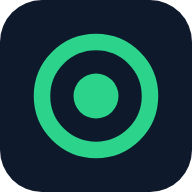
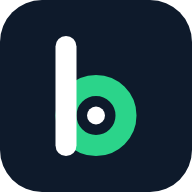
새 아이콘(렌즈 b)으로 바꾸기: 탭 아이콘·홈 화면 아이콘·머리글 로고·공유 그림
Claude-Session: https://claude.ai/code/session_01Y61Z65m8h8LFbiaCkMCBf3

Changed region(s): [[0.1562, 0.1562, 0.8438, 0.8438], [0.4375, 0.375, 0.5625, 0.4062]]

diff --git a/index.html b/index.html
@@ -283,7 +283,7 @@
 <body>
 <div class="band">
 <header class="sh"><div class="sh-in">
-  <a class="sh-logo" href="index.html"><svg width="26" height="26" viewBox="0 0 28 28" aria-hidden="true"><circle cx="14" cy="14" r="12" fill="none" stroke="#2bd48a" stroke-width="2.5"/><circle cx="14" cy="14" r="5" fill="#2bd48a"/></svg>블로랩</a>
+  <a class="sh-logo" href="index.html"><svg width="21" height="28" viewBox="16.5 10 31 44" aria-hidden="true"><circle cx="32" cy="38.5" r="10" fill="none" stroke="#2bd48a" stroke-width="7"/><rect x="18.5" y="12" width="7" height="40" rx="3.5" fill="#fff"/><circle cx="32" cy="38.5" r="3" fill="#fff"/></svg>블로랩</a>
   <nav class="sh-nav" aria-label="주요 메뉴"><a href="history.html">블로그 히스토리</a><a href="widget.html">업적 위젯</a><a href="analyze.html">체험단 진단</a><a href="analyze.html?mode=adpost">애드포스트 진단</a><a href="schedule.html">일정 관리</a><a href="index.html#sites">사이트 모음</a><a href="index.html#tips">꿀팁</a><a href="about.html">소개</a></nav>
   <div class="menu"><button class="mbtn" id="mbtn" type="button" aria-label="메뉴 열기" aria-expanded="false" aria-controls="mnav"><span></span><span></span><span></span></button>
   <nav class="mnav" id="mnav" hidden><a href="history.html">내 블로그 히스토리</a><a href="widget.html">블로그 업적 위젯</a><a href="analyze.html">체험단 탈락원인 진단</a><a href="analyze.html?mode=adpost">애드포스트 탈락원인 진단</a><a href="schedule.html">일정 관리</a><a href="index.html#sites">체험단 사이트 모음</a><a href="index.html#tips">꿀팁</a><a href="about.html">소개·문의</a></nav></div>

diff --git a/analyze.html b/analyze.html
@@ -123,7 +123,7 @@
 </head>
 <body>
 <header class="sh"><div class="sh-in">
-  <a class="sh-logo" href="index.html"><svg width="26" height="26" viewBox="0 0 28 28" aria-hidden="true"><circle cx="14" cy="14" r="12" fill="none" stroke="#2bd48a" stroke-width="2.5"/><circle cx="14" cy="14" r="5" fill="#2bd48a"/></svg>블로랩</a>
+  <a class="sh-logo" href="index.html"><svg width="21" height="28" viewBox="16.5 10 31 44" aria-hidden="true"><circle cx="32" cy="38.5" r="10" fill="none" stroke="#2bd48a" stroke-width="7"/><rect x="18.5" y="12" width="7" height="40" rx="3.5" fill="#fff"/><circle cx="32" cy="38.5" r="3" fill="#fff"/></svg>블로랩</a>
   <nav class="sh-nav" aria-label="주요 메뉴"><a href="history.html">블로그 히스토리</a><a href="widget.html">업적 위젯</a><a href="analyze.html">체험단 진단</a><a href="analyze.html?mode=adpost">애드포스트 진단</a><a href="schedule.html">일정 관리</a><a href="index.html#sites">사이트 모음</a><a href="index.html#tips">꿀팁</a><a href="about.html">소개</a></nav>
   <div class="menu"><button class="mbtn" id="mbtn" type="button" aria-label="메뉴 열기" aria-expanded="false" aria-controls="mnav"><span></span><span></span><span></span></button>
   <nav class="mnav" id="mnav" hidden><a href="history.html">내 블로그 히스토리</a><a href="widget.html">블로그 업적 위젯</a><a href="analyze.html">체험단 탈락원인 진단</a><a href="analyze.html?mode=adpost">애드포스트 탈락원인 진단</a><a href="schedule.html">일정 관리</a><a href="index.html#sites">체험단 사이트 모음</a><a href="index.html#tips">꿀팁</a><a href="about.html">소개·문의</a></nav></div>

diff --git a/blog/index.html b/blog/index.html
@@ -106,7 +106,7 @@
 </head>
 <body>
 <header class="sh"><div class="sh-in">
-  <a class="sh-logo" href="index.html"><svg width="26" height="26" viewBox="0 0 28 28" aria-hidden="true"><circle cx="14" cy="14" r="12" fill="none" stroke="#2bd48a" stroke-width="2.5"/><circle cx="14" cy="14" r="5" fill="#2bd48a"/></svg>블로랩</a>
+  <a class="sh-logo" href="index.html"><svg width="21" height="28" viewBox="16.5 10 31 44" aria-hidden="true"><circle cx="32" cy="38.5" r="10" fill="none" stroke="#2bd48a" stroke-width="7"/><rect x="18.5" y="12" width="7" height="40" rx="3.5" fill="#fff"/><circle cx="32" cy="38.5" r="3" fill="#fff"/></svg>블로랩</a>
   <nav class="sh-nav" aria-label="주요 메뉴"><a href="history.html">블로그 히스토리</a><a href="widget.html">업적 위젯</a><a href="analyze.html">체험단 진단</a><a href="analyze.html?mode=adpost">애드포스트 진단</a><a href="schedule.html">일정 관리</a><a href="index.html#sites">사이트 모음</a><a href="index.html#tips">꿀팁</a><a href="about.html">소개</a></nav>
   <div class="menu"><button class="mbtn" id="mbtn" type="button" aria-label="메뉴 열기" aria-expanded="false" aria-controls="mnav"><span></span><span></span><span></span></button>
   <nav class="mnav" id="mnav" hidden><a href="history.html">내 블로그 히스토리</a><a href="widget.html">블로그 업적 위젯</a><a href="analyze.html">체험단 탈락원인 진단</a><a href="analyze.html?mode=adpost">애드포스트 탈락원인 진단</a><a href="schedule.html">일정 관리</a><a href="index.html#sites">체험단 사이트 모음</a><a href="index.html#tips">꿀팁</a><a href="about.html">소개·문의</a></nav></div>

diff --git a/history.html b/history.html
@@ -255,7 +255,7 @@
 </head>
 <body>
 <header class="sh"><div class="sh-in">
-  <a class="sh-logo" href="index.html"><svg width="26" height="26" viewBox="0 0 28 28" aria-hidden="true"><circle cx="14" cy="14" r="12" fill="none" stroke="#2bd48a" stroke-width="2.5"/><circle cx="14" cy="14" r="5" fill="#2bd48a"/></svg>블로랩</a>
+  <a class="sh-logo" href="index.html"><svg width="21" height="28" viewBox="16.5 10 31 44" aria-hidden="true"><circle cx="32" cy="38.5" r="10" fill="none" stroke="#2bd48a" stroke-width="7"/><rect x="18.5" y="12" width="7" height="40" rx="3.5" fill="#fff"/><circle cx="32" cy="38.5" r="3" fill="#fff"/></svg>블로랩</a>
   <nav class="sh-nav" aria-label="주요 메뉴"><a href="history.html">블로그 히스토리</a><a href="widget.html">업적 위젯</a><a href="analyze.html">체험단 진단</a><a href="analyze.html?mode=adpost">애드포스트 진단</a><a href="schedule.html">일정 관리</a><a href="index.html#sites">사이트 모음</a><a href="index.html#tips">꿀팁</a><a href="about.html">소개</a></nav>
   <div class="menu"><button class="mbtn" id="mbtn" type="button" aria-label="메뉴 열기" aria-expanded="false" aria-controls="mnav"><span></span><span></span><span></span></button>
   <nav class="mnav" id="mnav" hidden><a href="history.html">내 블로그 히스토리</a><a href="widget.html">블로그 업적 위젯</a><a href="analyze.html">체험단 탈락원인 진단</a><a href="analyze.html?mode=adpost">애드포스트 탈락원인 진단</a><a href="schedule.html">일정 관리</a><a href="index.html#sites">체험단 사이트 모음</a><a href="index.html#tips">꿀팁</a><a href="about.html">소개·문의</a></nav></div>

diff --git a/widget.html b/widget.html
@@ -143,7 +143,7 @@
 </head>
 <body>
 <header class="sh"><div class="sh-in">
-  <a class="sh-logo" href="index.html"><svg width="26" height="26" viewBox="0 0 28 28" aria-hidden="true"><circle cx="14" cy="14" r="12" fill="none" stroke="#2bd48a" stroke-width="2.5"/><circle cx="14" cy="14" r="5" fill="#2bd48a"/></svg>블로랩</a>
+  <a class="sh-logo" href="index.html"><svg width="21" height="28" viewBox="16.5 10 31 44" aria-hidden="true"><circle cx="32" cy="38.5" r="10" fill="none" stroke="#2bd48a" stroke-width="7"/><rect x="18.5" y="12" width="7" height="40" rx="3.5" fill="#fff"/><circle cx="32" cy="38.5" r="3" fill="#fff"/></svg>블로랩</a>
   <nav class="sh-nav" aria-label="주요 메뉴"><a href="history.html">블로그 히스토리</a><a href="widget.html">업적 위젯</a><a href="analyze.html">체험단 진단</a><a href="analyze.html?mode=adpost">애드포스트 진단</a><a href="schedule.html">일정 관리</a><a href="index.html#sites">사이트 모음</a><a href="index.html#tips">꿀팁</a><a href="about.html">소개</a></nav>
   <div class="menu"><button class="mbtn" id="mbtn" type="button" aria-label="메뉴 열기" aria-expanded="false" aria-controls="mnav"><span></span><span></span><span></span></button>
   <nav class="mnav" id="mnav" hidden><a href="history.html">내 블로그 히스토리</a><a href="widget.html">블로그 업적 위젯</a><a href="analyze.html">체험단 탈락원인 진단</a><a href="analyze.html?mode=adpost">애드포스트 탈락원인 진단</a><a href="schedule.html">일정 관리</a><a href="index.html#sites">체험단 사이트 모음</a><a href="index.html#tips">꿀팁</a><a href="about.html">소개·문의</a></nav></div>

diff --git a/about.html b/about.html
@@ -49,7 +49,7 @@
 </head>
 <body>
 <header class="sh"><div class="sh-in">
-  <a class="sh-logo" href="index.html"><svg width="26" height="26" viewBox="0 0 28 28" aria-hidden="true"><circle cx="14" cy="14" r="12" fill="none" stroke="#2bd48a" stroke-width="2.5"/><circle cx="14" cy="14" r="5" fill="#2bd48a"/></svg>블로랩</a>
+  <a class="sh-logo" href="index.html"><svg width="21" height="28" viewBox="16.5 10 31 44" aria-hidden="true"><circle cx="32" cy="38.5" r="10" fill="none" stroke="#2bd48a" stroke-width="7"/><rect x="18.5" y="12" width="7" height="40" rx="3.5" fill="#fff"/><circle cx="32" cy="38.5" r="3" fill="#fff"/></svg>블로랩</a>
   <nav class="sh-nav" aria-label="주요 메뉴"><a href="history.html">블로그 히스토리</a><a href="widget.html">업적 위젯</a><a href="analyze.html">체험단 진단</a><a href="analyze.html?mode=adpost">애드포스트 진단</a><a href="schedule.html">일정 관리</a><a href="index.html#sites">사이트 모음</a><a href="index.html#tips">꿀팁</a><a href="about.html">소개</a></nav>
   <div class="menu"><button class="mbtn" id="mbtn" type="button" aria-label="메뉴 열기" aria-expanded="false" aria-controls="mnav"><span></span><span></span><span></span></button>
   <nav class="mnav" id="mnav" hidden><a href="history.html">내 블로그 히스토리</a><a href="widget.html">블로그 업적 위젯</a><a href="analyze.html">체험단 탈락원인 진단</a><a href="analyze.html?mode=adpost">애드포스트 탈락원인 진단</a><a href="schedule.html">일정 관리</a><a href="index.html#sites">체험단 사이트 모음</a><a href="index.html#tips">꿀팁</a><a href="about.html">소개·문의</a></nav></div>

diff --git a/login.html b/login.html
@@ -55,7 +55,7 @@
 </head>
 <body>
 <header class="sh"><div class="sh-in">
-  <a class="sh-logo" href="index.html"><svg width="26" height="26" viewBox="0 0 28 28" aria-hidden="true"><circle cx="14" cy="14" r="12" fill="none" stroke="#2bd48a" stroke-width="2.5"/><circle cx="14" cy="14" r="5" fill="#2bd48a"/></svg>블로랩</a>
+  <a class="sh-logo" href="index.html"><svg width="21" height="28" viewBox="16.5 10 31 44" aria-hidden="true"><circle cx="32" cy="38.5" r="10" fill="none" stroke="#2bd48a" stroke-width="7"/><rect x="18.5" y="12" width="7" height="40" rx="3.5" fill="#fff"/><circle cx="32" cy="38.5" r="3" fill="#fff"/></svg>블로랩</a>
   <nav class="sh-nav" aria-label="주요 메뉴"><a href="history.html">블로그 히스토리</a><a href="widget.html">업적 위젯</a><a href="analyze.html">체험단 진단</a><a href="analyze.html?mode=adpost">애드포스트 진단</a><a href="schedule.html">일정 관리</a><a href="index.html#sites">사이트 모음</a><a href="index.html#tips">꿀팁</a><a href="about.html">소개</a></nav>
   <div class="menu"><button class="mbtn" id="mbtn" type="button" aria-label="메뉴 열기" aria-expanded="false" aria-controls="mnav"><span></span><span></span><span></span></button>
   <nav class="mnav" id="mnav" hidden><a href="history.html">내 블로그 히스토리</a><a href="widget.html">블로그 업적 위젯</a><a href="analyze.html">체험단 탈락원인 진단</a><a href="analyze.html?mode=adpost">애드포스트 탈락원인 진단</a><a href="schedule.html">일정 관리</a><a href="index.html#sites">체험단 사이트 모음</a><a href="index.html#tips">꿀팁</a><a href="about.html">소개·문의</a></nav></div>

diff --git a/privacy.html b/privacy.html
@@ -49,7 +49,7 @@
 </head>
 <body>
 <header class="sh"><div class="sh-in">
-  <a class="sh-logo" href="index.html"><svg width="26" height="26" viewBox="0 0 28 28" aria-hidden="true"><circle cx="14" cy="14" r="12" fill="none" stroke="#2bd48a" stroke-width="2.5"/><circle cx="14" cy="14" r="5" fill="#2bd48a"/></svg>블로랩</a>
+  <a class="sh-logo" href="index.html"><svg width="21" height="28" viewBox="16.5 10 31 44" aria-hidden="true"><circle cx="32" cy="38.5" r="10" fill="none" stroke="#2bd48a" stroke-width="7"/><rect x="18.5" y="12" width="7" height="40" rx="3.5" fill="#fff"/><circle cx="32" cy="38.5" r="3" fill="#fff"/></svg>블로랩</a>
   <nav class="sh-nav" aria-label="주요 메뉴"><a href="history.html">블로그 히스토리</a><a href="widget.html">업적 위젯</a><a href="analyze.html">체험단 진단</a><a href="analyze.html?mode=adpost">애드포스트 진단</a><a href="schedule.html">일정 관리</a><a href="index.html#sites">사이트 모음</a><a href="index.html#tips">꿀팁</a><a href="about.html">소개</a></nav>
   <div class="menu"><button class="mbtn" id="mbtn" type="button" aria-label="메뉴 열기" aria-expanded="false" aria-controls="mnav"><span></span><span></span><span></span></button>
   <nav class="mnav" id="mnav" hidden><a href="history.html">내 블로그 히스토리</a><a href="widget.html">블로그 업적 위젯</a><a href="analyze.html">체험단 탈락원인 진단</a><a href="analyze.html?mode=adpost">애드포스트 탈락원인 진단</a><a href="schedule.html">일정 관리</a><a href="index.html#sites">체험단 사이트 모음</a><a href="index.html#tips">꿀팁</a><a href="about.html">소개·문의</a></nav></div>

diff --git a/tip-apply.html b/tip-apply.html
@@ -66,7 +66,7 @@
 </head>
 <body>
 <header class="sh"><div class="sh-in">
-  <a class="sh-logo" href="index.html"><svg width="26" height="26" viewBox="0 0 28 28" aria-hidden="true"><circle cx="14" cy="14" r="12" fill="none" stroke="#2bd48a" stroke-width="2.5"/><circle cx="14" cy="14" r="5" fill="#2bd48a"/></svg>블로랩</a>
+  <a class="sh-logo" href="index.html"><svg width="21" height="28" viewBox="16.5 10 31 44" aria-hidden="true"><circle cx="32" cy="38.5" r="10" fill="none" stroke="#2bd48a" stroke-width="7"/><rect x="18.5" y="12" width="7" height="40" rx="3.5" fill="#fff"/><circle cx="32" cy="38.5" r="3" fill="#fff"/></svg>블로랩</a>
   <nav class="sh-nav" aria-label="주요 메뉴"><a href="history.html">블로그 히스토리</a><a href="widget.html">업적 위젯</a><a href="analyze.html">체험단 진단</a><a href="analyze.html?mode=adpost">애드포스트 진단</a><a href="schedule.html">일정 관리</a><a href="index.html#sites">사이트 모음</a><a href="index.html#tips">꿀팁</a><a href="about.html">소개</a></nav>
   <div class="menu"><button class="mbtn" id="mbtn" type="button" aria-label="메뉴 열기" aria-expanded="false" aria-controls="mnav"><span></span><span></span><span></span></button>
   <nav class="mnav" id="mnav" hidden><a href="history.html">내 블로그 히스토리</a><a href="widget.html">블로그 업적 위젯</a><a href="analyze.html">체험단 탈락원인 진단</a><a href="analyze.html?mode=adpost">애드포스트 탈락원인 진단</a><a href="schedule.html">일정 관리</a><a href="index.html#sites">체험단 사이트 모음</a><a href="index.html#tips">꿀팁</a><a href="about.html">소개·문의</a></nav></div>

diff --git a/tip-compare.html b/tip-compare.html
@@ -66,7 +66,7 @@
 </head>
 <body>
 <header class="sh"><div class="sh-in">
-  <a class="sh-logo" href="index.html"><svg width="26" height="26" viewBox="0 0 28 28" aria-hidden="true"><circle cx="14" cy="14" r="12" fill="none" stroke="#2bd48a" stroke-width="2.5"/><circle cx="14" cy="14" r="5" fill="#2bd48a"/></svg>블로랩</a>
+  <a class="sh-logo" href="index.html"><svg width="21" height="28" viewBox="16.5 10 31 44" aria-hidden="true"><circle cx="32" cy="38.5" r="10" fill="none" stroke="#2bd48a" stroke-width="7"/><rect x="18.5" y="12" width="7" height="40" rx="3.5" fill="#fff"/><circle cx="32" cy="38.5" r="3" fill="#fff"/></svg>블로랩</a>
   <nav class="sh-nav" aria-label="주요 메뉴"><a href="history.html">블로그 히스토리</a><a href="widget.html">업적 위젯</a><a href="analyze.html">체험단 진단</a><a href="analyze.html?mode=adpost">애드포스트 진단</a><a href="schedule.html">일정 관리</a><a href="index.html#sites">사이트 모음</a><a href="index.html#tips">꿀팁</a><a href="about.html">소개</a></nav>
   <div class="menu"><button class="mbtn" id="mbtn" type="button" aria-label="메뉴 열기" aria-expanded="false" aria-controls="mnav"><span></span><span></span><span></span></button>
   <nav class="mnav" id="mnav" hidden><a href="history.html">내 블로그 히스토리</a><a href="widget.html">블로그 업적 위젯</a><a href="analyze.html">체험단 탈락원인 진단</a><a href="analyze.html?mode=adpost">애드포스트 탈락원인 진단</a><a href="schedule.html">일정 관리</a><a href="index.html#sites">체험단 사이트 모음</a><a href="index.html#tips">꿀팁</a><a href="about.html">소개·문의</a></nav></div>

diff --git a/tip-delivery.html b/tip-delivery.html
@@ -66,7 +66,7 @@
 </head>
 <body>
 <header class="sh"><div class="sh-in">
-  <a class="sh-logo" href="index.html"><svg width="26" height="26" viewBox="0 0 28 28" aria-hidden="true"><circle cx="14" cy="14" r="12" fill="none" stroke="#2bd48a" stroke-width="2.5"/><circle cx="14" cy="14" r="5" fill="#2bd48a"/></svg>블로랩</a>
+  <a class="sh-logo" href="index.html"><svg width="21" height="28" viewBox="16.5 10 31 44" aria-hidden="true"><circle cx="32" cy="38.5" r="10" fill="none" stroke="#2bd48a" stroke-width="7"/><rect x="18.5" y="12" width="7" height="40" rx="3.5" fill="#fff"/><circle cx="32" cy="38.5" r="3" fill="#fff"/></svg>블로랩</a>
   <nav class="sh-nav" aria-label="주요 메뉴"><a href="history.html">블로그 히스토리</a><a href="widget.html">업적 위젯</a><a href="analyze.html">체험단 진단</a><a href="analyze.html?mode=adpost">애드포스트 진단</a><a href="schedule.html">일정 관리</a><a href="index.html#sites">사이트 모음</a><a href="index.html#tips">꿀팁</a><a href="about.html">소개</a></nav>
   <div class="menu"><button class="mbtn" id="mbtn" type="button" aria-label="메뉴 열기" aria-expanded="false" aria-controls="mnav"><span></span><span></span><span></span></button>
   <nav class="mnav" id="mnav" hidden><a href="history.html">내 블로그 히스토리</a><a href="widget.html">블로그 업적 위젯</a><a href="analyze.html">체험단 탈락원인 진단</a><a href="analyze.html?mode=adpost">애드포스트 탈락원인 진단</a><a href="schedule.html">일정 관리</a><a href="index.html#sites">체험단 사이트 모음</a><a href="index.html#tips">꿀팁</a><a href="about.html">소개·문의</a></nav></div>

diff --git a/tip-disclosure.html b/tip-disclosure.html
@@ -66,7 +66,7 @@
 </head>
 <body>
 <header class="sh"><div class="sh-in">
-  <a class="sh-logo" href="index.html"><svg width="26" height="26" viewBox="0 0 28 28" aria-hidden="true"><circle cx="14" cy="14" r="12" fill="none" stroke="#2bd48a" stroke-width="2.5"/><circle cx="14" cy="14" r="5" fill="#2bd48a"/></svg>블로랩</a>
+  <a class="sh-logo" href="index.html"><svg width="21" height="28" viewBox="16.5 10 31 44" aria-hidden="true"><circle cx="32" cy="38.5" r="10" fill="none" stroke="#2bd48a" stroke-width="7"/><rect x="18.5" y="12" width="7" height="40" rx="3.5" fill="#fff"/><circle cx="32" cy="38.5" r="3" fill="#fff"/></svg>블로랩</a>
   <nav class="sh-nav" aria-label="주요 메뉴"><a href="history.html">블로그 히스토리</a><a href="widget.html">업적 위젯</a><a href="analyze.html">체험단 진단</a><a href="analyze.html?mode=adpost">애드포스트 진단</a><a href="schedule.html">일정 관리</a><a href="index.html#sites">사이트 모음</a><a href="index.html#tips">꿀팁</a><a href="about.html">소개</a></nav>
   <div class="menu"><button class="mbtn" id="mbtn" type="button" aria-label="메뉴 열기" aria-expanded="false" aria-controls="mnav"><span></span><span></span><span></span></button>
   <nav class="mnav" id="mnav" hidden><a href="history.html">내 블로그 히스토리</a><a href="widget.html">블로그 업적 위젯</a><a href="analyze.html">체험단 탈락원인 진단</a><a href="analyze.html?mode=adpost">애드포스트 탈락원인 진단</a><a href="schedule.html">일정 관리</a><a href="index.html#sites">체험단 사이트 모음</a><a href="index.html#tips">꿀팁</a><a href="about.html">소개·문의</a></nav></div>
